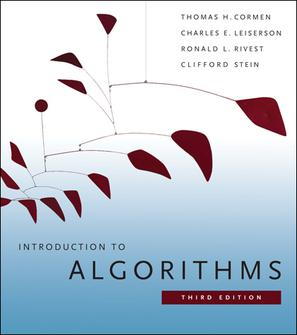
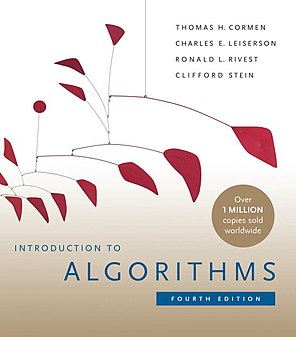
update to 4th edition, finish ch01

diff --git a/01/exercises/README.md b/01/exercises/README.md
@@ -1,0 +1,110 @@
+## Section 1.1
+
+### Exercise 1.1-1
+
+Give a real-world example that requires sorting or a real-world example that
+requires computing a convex hull.
+
+#### Solution
+
+Cash sorting machines, using a "magic wand" selection tool in a photo editor.
+
+### Exercise 1.1-2
+
+Other than speed, what other measures of efficiency might one use in a
+real-world setting?
+
+#### Solution
+
+Computational resource consumption (i.e., memory, disk usage), cost to
+implement, ease of use, ease of explanation, simplicity.
+
+### Exercise 1.1-3
+
+Select a data structure that you have seen previously, and discuss its strengths
+and limitations.
+
+#### Solution
+
+A linked list. The linked list is useful to create arbitrarily-large sets of
+data in a set order without immediately allocating resources for a "maximum"
+size. However, the linked list can be improperly linked leading to searching
+through an endless loop or risk accessing incorrect or dangerous data.
+
+### Exercise 1.1-4
+
+How are the shortest-path and traveling-salesman problems given above similar?
+How are they different?
+
+#### Solution
+
+Both problems involve path-finding and involve finding the least distance
+travelled over a given set of coordinates. The difference is that the
+traveling-salesman problem require return distance as its final coordinate point
+rather than a one-way trip.
+
+### Exercise 1.1-5
+
+Come up with a real-world problem in which only the best solution will do. Then
+come up with one in which a solution that is "approximately" the best is good
+enough.
+
+#### Solution
+
+Eliminating pests. Getting rid of ninety-nine percent is not good enough if they
+can breed back to full destructive capacity.
+
+Harmonically analyzing a piece of Common Practice period music with figured bass
+and Roman numerals. There may be multiple ways to interpret the given data, and
+therefore an approximately-perfect solution is adequate.
+
+### Exercise 1.1-6
+
+Describe a real-world problem in which sometimes the entire input is available
+before you need to solve the problem, but other times the input is not entirely
+available in advance and arrives over time.
+
+#### Solution
+
+Spawning players in a multiplayer game. Sometimes all players will be ready and
+the match can be made immediately, but sometimes some players are still joining
+or the internet has connection issues, and the game cannot start until they've
+joined.
+
+
+## Section 1.2
+
+
+### Exercise 1.2-1
+
+Give an example of an application that requires algorithmic content at the
+application level, and discuss the function of the algorithms involved.
+
+### Solution
+
+Any sort of matchmaking or dating application requiring the user's data to have
+some relation to each other, like location, interests or biographical keywords.
+
+### Exercise 1.2-2
+
+Suppose we are comparing implementations of insertion sort and merge sort on the
+same machine. For inputs of size *n*, insertion sort runs in 8*n*<sup>2</sup>
+steps, while merge sort runs in 64*n*&nbsp;lg&nbsp;*n* steps. For which values
+of *n* does insertion sort beat merge sort?
+
+### Solution
+
+When the two functions are graphed, their equations meet at around 1 and 43.
+Therefore, insertion sort beats merge sort for inputs of size 43 or fewer.
+
+### Exercise 1.2-3
+
+What is the smallest value of *n* such that an algorithm whose running time is
+100*n*<sup>2</sup> runs faster than an algorithm whose running time is
+2<sup>*n*</sup> on the same machine?
+
+### Solution
+
+The smallest positive integer value solution to the inequality
+100*n*<sup>2</sup> < 2<sup>*n*</sup> is 15, which is therefore the smallest
+value of *n* that would run faster on the 100*n*<sup>2</sup> algorithm.

diff --git a/README.md b/README.md
@@ -1,5 +1,5 @@
 # clrs
-My solutions to the exercises in "Introduction to Algorithms", third edition, by
+My solutions to the exercises in "Introduction to Algorithms", fourth edition, by
 Cormen, Lieserson, Rivest and Stein (also known as CLRS).
 
 <p align="center">
